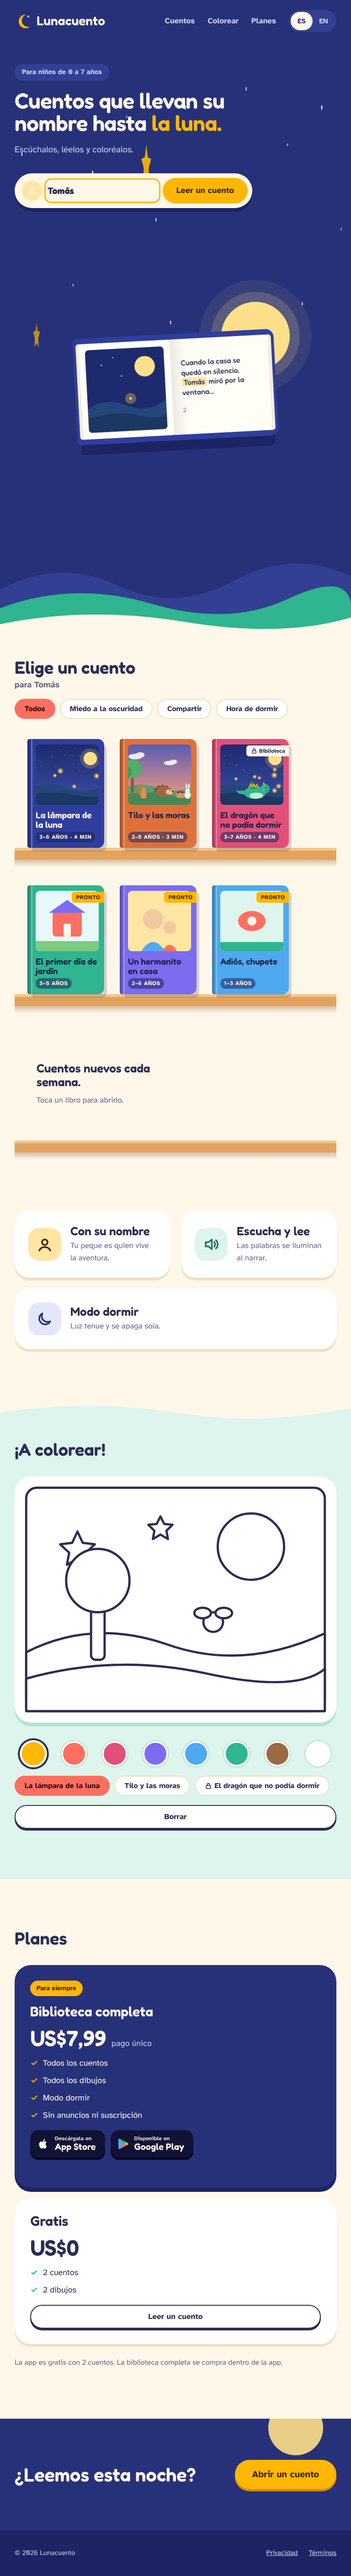
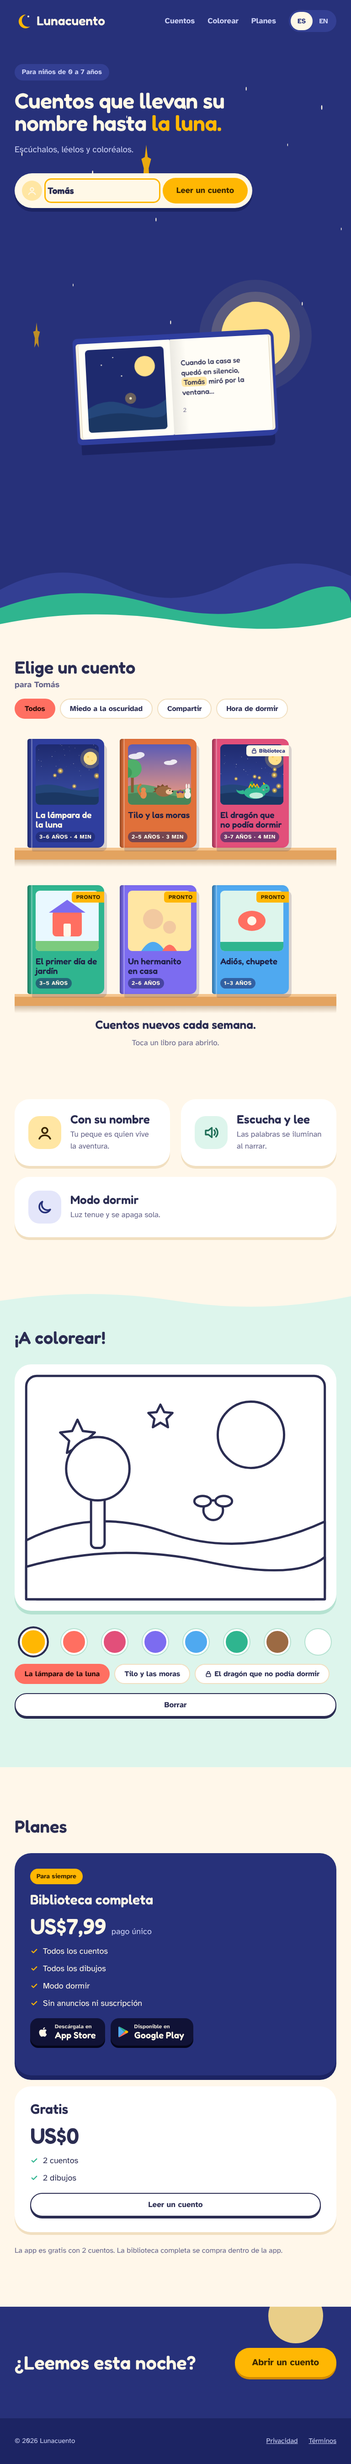
Modo de prueba, estante corregido y despliegue en Vercel (#3)
* Agrega Capacitor con los proyectos ios/ y android/

appId com.lunacuento.app, appName Lunacuento, webDir "out".
Scripts: build:app, cap:ios, cap:android. Dependencias: core, cli, ios,
android, browser y @revenuecat/purchases-capacitor.

Claude-Session: https://claude.ai/code/session_01NsKeDMnxH8TrdVoQXG24KL

* Agrega detección de plataforma y capa de compras con RevenueCat

src/lib/platform.ts detecta la app nativa sin importar Capacitor en la web.
src/lib/purchases.ts: iniciar, comprar, restaurar y entitlement "biblioteca"
(producto lunacuento_biblioteca). Sin claves o en web responde "no disponible".
Documenta NEXT_PUBLIC_RC_IOS_KEY y NEXT_PUBLIC_RC_ANDROID_KEY en .env.example.

Claude-Session: https://claude.ai/code/session_01NsKeDMnxH8TrdVoQXG24KL

* Agrega portón para adultos, pantalla de compra y modo app

- ParentalGate: suma con números en palabras y 3 opciones; también protege los enlaces externos.
- Paywall en /[lang]/comprar y al abrir un cuento con candado: Comprar y Restaurar compra.
- En la app nativa se ocultan el header web y los botones "descarga la app" (barra mínima con ES/EN).
- Textos ES/EN y privacidad/términos actualizados para la app.

Claude-Session: https://claude.ai/code/session_01NsKeDMnxH8TrdVoQXG24KL

* Agrega el cuento premium "El dragón que no podía dormir"

6 páginas ES/EN con candado (premium: true), escena vectorial de Brasa y
dibujo para colorear bloqueado hasta comprar. Los enlaces externos de las
[…]

diff --git a/src/components/Paywall.tsx b/src/components/Paywall.tsx
@@ -1,9 +1,11 @@
 "use client";
 
 import Link from "next/link";
+import { useRouter } from "next/navigation";
 import { useEffect, useState } from "react";
 import { coverInk } from "@/lib/art";
 import type { Dict, Lang } from "@/lib/i18n";
+import { MODO_PRUEBA } from "@/lib/modo-prueba";
 import { useNative } from "@/lib/platform";
 import { loadPrice, purchaseLibrary, restorePurchases, useLibrary, type PurchaseResult, type PurchaseStatus } from "@/lib/purchases";
 import type { Story } from "@/lib/stories";
@@ -26,7 +28,15 @@ export default function Paywall({ lang, t, story }: { lang: Lang; t: Dict; story
   const [msg, setMsg] = useState<Msg | null>(null);
   const [price, setPrice] = useState<string | null>(null);
 
+  const router = useRouter();
+
+  // Modo de prueba: no hay pantalla de compra; /comprar vuelve al estante.
   useEffect(() => {
+    if (MODO_PRUEBA) router.replace(`/${lang}#cuentos`);
+  }, [router, lang]);
+
+  useEffect(() => {
+    if (MODO_PRUEBA) return;
     let alive = true;
     loadPrice().then((p) => alive && setPrice(p));
     return () => {
@@ -52,6 +62,8 @@ export default function Paywall({ lang, t, story }: { lang: Lang; t: Dict; story
       setBusy(false);
       setMsg(text(r.status, kind));
     });
+
+  if (MODO_PRUEBA) return null;
 
   const back = story ? `/${lang}#cuentos` : `/${lang}`;
   const cover = story?.color ?? "#2F3E9E";

diff --git a/src/app/globals.css b/src/app/globals.css
@@ -193,6 +193,12 @@ img, svg { max-width: 100%; }
   border-radius: 6px;
 }
 .shelf-grid > * { min-width: 0; }
+.shelf-aside.below { display: none; }
+/* Hasta 900 px la grilla tiene 3 columnas o menos: el aviso va debajo del estante y no en una fila con tablón vacío. */
+@media (max-width: 900px) {
+  .shelf-aside.in-grid { display: none; }
+  .shelf-aside.below { display: flex; grid-column: auto; height: auto; padding: 8px 8px 0; align-items: center; text-align: center; max-width: none; margin: 0 auto; }
+}
 .shelf-aside { grid-column: span 2; height: var(--bh); display: flex; flex-direction: column; justify-content: center; gap: 12px; max-width: 340px; padding: 0 0 10px 20px; }
 .shelf-aside p:first-child { font-family: var(--font-display); font-size: 26px; font-weight: 600; line-height: 1.15; }
 .shelf-aside p + p { font-size: 17px; color: var(--muted); }
@@ -329,7 +335,6 @@ a.bk:active { transform: translateY(-6px) rotate(-1deg); }
   .bk-ttl { padding: 10px 10px 10px 16px; }
   .bk-ttl b { font-size: 17px; }
   .bk-ttl small { font-size: 11px; }
-  .shelf-aside { padding: 0 8px 10px; align-items: center; text-align: center; max-width: none; }
   .shelf-aside p:first-child { font-size: 22px; }
   .features { flex-direction: column; gap: 14px; }
   .feature { flex: none; border-radius: 26px; padding: 18px; gap: 16px; box-shadow: 0 5px 0 var(--card-shadow); }

diff --git a/src/lib/purchases.ts b/src/lib/purchases.ts
@@ -2,6 +2,7 @@
 
 import { useSyncExternalStore } from "react";
 import type { CustomerInfo, PRODUCT_CATEGORY, PurchasesStoreProduct } from "@revenuecat/purchases-capacitor";
+import { MODO_PRUEBA } from "./modo-prueba";
 import { getPlatform } from "./platform";
 
 /**
@@ -58,7 +59,8 @@ function setOwned(v: boolean) {
   if (prev !== v) listeners.forEach((l) => l());
 }
 
-export const isLibraryOwned = () => (owned ??= readCache());
+/** En modo de prueba (NEXT_PUBLIC_MODO_PRUEBA=1) la biblioteca siempre está desbloqueada. */
+export const isLibraryOwned = () => MODO_PRUEBA || (owned ??= readCache());
 
 function subscribe(cb: () => void) {
   listeners.add(cb);
@@ -67,9 +69,9 @@ function subscribe(cb: () => void) {
   };
 }
 
-/** ¿Está desbloqueada la biblioteca completa? Falso en el servidor y en la hidratación. */
+/** ¿Está desbloqueada la biblioteca completa? Falso en el servidor y en la hidratación (verdadero en modo de prueba). */
 export function useLibrary(): boolean {
-  return useSyncExternalStore(subscribe, isLibraryOwned, () => false);
+  return useSyncExternalStore(subscribe, isLibraryOwned, () => MODO_PRUEBA);
 }
 
 /* ------------------------------------------------------------------ */

diff --git a/src/lib/i18n.ts b/src/lib/i18n.ts
@@ -70,7 +70,7 @@ const es = {
     note: "La compra la hace una persona adulta con su cuenta de App Store o Google Play.", lock: "Cuento bloqueado", tag: "Biblioteca",
   },
   final: { title: "¿Leemos esta noche?", cta: "Abrir un cuento" },
-  footer: { rights: "© 2026 Lunacuento", privacy: "Privacidad", terms: "Términos" },
+  footer: { rights: "© 2026 Lunacuento", privacy: "Privacidad", terms: "Términos", test: "Modo de prueba: cuentos desbloqueados" },
   legal: {
     draft: "Borrador · se revisará antes del lanzamiento.",
     back: "Volver al inicio",
@@ -158,7 +158,7 @@ const en: typeof es = {
     note: "An adult makes the purchase with their App Store or Google Play account.", lock: "Locked story", tag: "Library",
   },
   final: { title: "Story time tonight?", cta: "Open a story" },
-  footer: { rights: "© 2026 Lunacuento", privacy: "Privacy", terms: "Terms" },
+  footer: { rights: "© 2026 Lunacuento", privacy: "Privacy", terms: "Terms", test: "Test mode: stories unlocked" },
   legal: {
     draft: "Draft · to be reviewed before launch.",
     back: "Back to home",

diff --git a/src/components/Plans.tsx b/src/components/Plans.tsx
@@ -1,6 +1,7 @@
 import Link from "next/link";
 import type { Dict, Lang } from "@/lib/i18n";
 import { IconCheck } from "./icons";
+import { MODO_PRUEBA } from "@/lib/modo-prueba";
 import StoreButtons from "./StoreButtons";
 
 /**
@@ -32,7 +33,7 @@ export default function Plans({ lang, t, firstStory }: { lang: Lang; t: Dict; fi
             <Feats list={P.full.feat} />
             <div className="actions">
               <div className="web-only"><StoreButtons t={t} /></div>
-              <Link href={`/${lang}/comprar`} className="btn btn-sun btn-lg app-only">{t.buy.unlock}</Link>
+              {MODO_PRUEBA ? null : <Link href={`/${lang}/comprar`} className="btn btn-sun btn-lg app-only">{t.buy.unlock}</Link>}
             </div>
           </div>
         </div>

diff --git a/src/components/Shelf.tsx b/src/components/Shelf.tsx
@@ -76,10 +76,15 @@ export default function Shelf({ lang, t, stories }: { lang: Lang; t: Dict; stori
             </div>
           ))}
           {list.length + soon.length === 0 ? <p className="shelf-empty">{t.shelf.empty}</p> : null}
-          <div className="shelf-aside">
+          <div className="shelf-aside in-grid">
             <p>{t.shelf.weekly}</p>
             <p>{t.shelf.note}</p>
           </div>
+        </div>
+        {/* En pantallas chicas el aviso va debajo del estante: dentro de la grilla ocuparía una fila con un tablón vacío. */}
+        <div className="shelf-aside below">
+          <p>{t.shelf.weekly}</p>
+          <p>{t.shelf.note}</p>
         </div>
       </div>
     </section>

diff --git a/src/components/SiteFooter.tsx b/src/components/SiteFooter.tsx
@@ -1,11 +1,12 @@
 import Link from "next/link";
 import type { Dict, Lang } from "@/lib/i18n";
+import { MODO_PRUEBA } from "@/lib/modo-prueba";
 
 export default function SiteFooter({ lang, t }: { lang: Lang; t: Dict }) {
   return (
     <footer className="site-footer">
       <div className="wrap">
-        <span>{t.footer.rights}</span>
+        <span>{t.footer.rights}{MODO_PRUEBA ? ` · ${t.footer.test}` : ""}</span>
         <nav aria-label={`${t.footer.privacy} · ${t.footer.terms}`}>
           <Link href={`/${lang}/privacidad`}>{t.footer.privacy}</Link>
           <Link href={`/${lang}/terminos`}>{t.footer.terms}</Link>

diff --git a/src/lib/modo-prueba.ts b/src/lib/modo-prueba.ts
@@ -1,0 +1,7 @@
+/**
+ * Modo de prueba: con NEXT_PUBLIC_MODO_PRUEBA=1 todos los cuentos premium quedan desbloqueados y no se muestra
+ * la pantalla de compra (sirve para probar la funcionalidad antes de configurar los pagos).
+ * Vacía = comportamiento normal. Se incrusta al compilar: cambiarla exige volver a compilar o desplegar.
+ * Sin "use client" a propósito: lo usan componentes de servidor y de cliente.
+ */
+export const MODO_PRUEBA = process.env.NEXT_PUBLIC_MODO_PRUEBA === "1";

diff --git a/docs/PROBAR-EN-MAC.md b/docs/PROBAR-EN-MAC.md
@@ -1,0 +1,177 @@
+# Probar la app en el simulador de iPhone y en el emulador de Android
+
+Guía para ver Lunacuento corriendo en tu Mac, **sin cuenta de desarrollador, sin tiendas y sin pagos**. Se usa el modo de prueba, que desbloquea todos los cuentos.
+
+> Estado: estos pasos no se han ejecutado todavía en un Mac (el proyecto se construyó en Linux). Si algún comando falla, pega el error y se corrige.
+
+## 0. Una sola vez: instalar herramientas
+
+1. **Xcode** desde la App Store (pesa varios GB). Ábrelo una vez y acepta la licencia. Después:
+
+   ```bash
+   xcode-select --install
+   ```
+
+   ```bash
+   sudo xcodebuild -license accept
+   ```
+
+   Xcode necesita tener instalado un simulador de iOS: **Xcode → Settings → Components** (o *Platforms*) → instala el iOS más reciente.
+   La versión mínima de Xcode la fija Capacitor 8: <https://capacitorjs.com/docs/getting-started/environment-setup>.
+
+2. **Node.js** 20 o superior (con Homebrew: <https://brew.sh>):
+
+   ```bash
+   brew install node
+   ```
+
+   ```bash
+   node -v
+   ```
+
+3. **Android Studio**: <https://developer.android.com/studio>. Ábrelo una vez y deja que descargue el SDK (*More Actions → SDK Manager*: un *SDK Platform* reciente, *Android SDK Platform-Tools* y *Android Emulator*).
+
+4. Variables de Android para la terminal (añádelas a `~/.zshrc` y abre una terminal nueva):
+
+   ```bash
+   echo 'export ANDROID_HOME="$HOME/Library/Android/sdk"' >> ~/.zshrc
+   ```
+
+   ```bash
+   echo 'export PATH="$PATH:$ANDROID_HOME/emulator:$ANDROID_HOME/platform-tools"' >> ~/.zshrc
+   ```
+
+   ```bash
+   echo 'export JAVA_HOME="/Applications/Android Studio.app/Contents/jbr/Contents/Home"' >> ~/.zshrc
+   ```
+
+## 1. Descargar el proyecto y preparar el modo de prueba
+
+```bash
+git clone https://github.com/ahermosilla-chl/lunacuento.git
+cd lunacuento
+```
+
+Mientras los cambios no estén en `main`, cambia a la rama que los trae (si ya se fusionó, sáltate este paso):
+
+```bash
+git checkout claude/lunacuento-modo-prueba
+```
+
+```bash
+npm ci
+```
+
+```bash
+echo 'NEXT_PUBLIC_MODO_PRUEBA=1' > .env.local
+```
+
+Genera el sitio y cópialo a los proyectos nativos (necesita internet: descarga las fuentes):
+
+```bash
+npm run build:app
+```
+
+> Cada vez que cambies código o `.env.local`, repite `npm run build:app`. La variable se incrusta al compilar.
+
+## 2. iPhone (simulador de Xcode)
+
+Opción A, con la interfaz de Xcode:
+
+```bash
+npm run cap:ios
+```
+
+1. Se abre Xcode. Espera a que termine *Resolving Package Dependencies* (la primera vez tarda; necesita internet).
+2. Arriba, junto al botón ▶, elige un simulador (p. ej. **iPhone 16** o el que tengas).
+3. Para el simulador **no hace falta firmar**: si Xcode pide *Team*, no importa para el simulador.
+4. Pulsa **▶ (Run)**. El simulador arranca y abre Lunacuento.
+
+Opción B, solo con comandos:
+
+```bash
+xcrun simctl list devices available
+```
+
+Copia el nombre exacto de un iPhone de la lista (p. ej. `iPhone 16`) y:
+
+```bash
+npx cap run ios --target "$(xcrun simctl list devices available | grep -m1 'iPhone' | grep -oE '[0-9A-F-]{36}')"
+```
+
+Si prefieres elegir de una lista interactiva:
+
+```bash
+npx cap run ios
+```
+
+Girar el simulador: **Cmd + ← / →**. Cambiar de iPhone: menú **File → Open Simulator**.
+
+## 3. Android (emulador de Android Studio)
+
+Crear un emulador (una sola vez): abre Android Studio → **More Actions → Virtual Device Manager → Create Device** → elige *Pixel 8* (o similar) → una imagen de sistema reciente (descárgala con ⬇) → *Finish*.
+
+Opción A, con la interfaz:
+
+```bash
+npm run cap:android
+```
+
+1. Se abre Android Studio. Espera a que termine **Gradle sync** (abajo; la primera vez tarda y descarga cosas).
+2. Arriba, en el selector de dispositivos, elige tu emulador.
+3. Pulsa **▶ (Run 'app')**. El emulador arranca y abre Lunacuento.
+
+Opción B, solo con comandos:
+
+```bash
+emulator -list-avds
+```
+
+```bash
+emulator -avd NOMBRE_DEL_EMULADOR &
+```
+
+Cuando el emulador termine de arrancar:
+
+```bash
+npx cap run android
+```
+
+## 4. Qué probar (modo de prueba)
+
+- Al final de la página principal, el pie dice **"Modo de prueba: cuentos desbloqueados"**.
+- No se ve el header de la web ni botones "Descarga la app": solo la barra con el logo y **ES/EN**.
+- En el estante, **"El dragón que no podía dormir" no tiene candado** y se abre directo en el libro. No aparece la pantalla de compra en ningún lado.
+- Abrir el libro: la tapa se abre, la hoja sigue el dedo (en el simulador, arrastra con el mouse), tocar los lados pasa página.
+- **Lectura acompañada** con voz: pulsa "Escuchar" y confirma que se iluminan las palabras y que la página pasa sola. Es el único punto de la auditoría que falta verificar con voz real.
+- **Modo dormir** con temporizador, y la pantalla "Buenas noches".
+- Colorear: tocar una zona la pinta; el dibujo del dragón también está disponible.
+- Cambiar ES/EN y escribir un nombre: el nombre aparece en estante y cuentos.
+- Gira el dispositivo y comprueba que no haya scroll horizontal.
+
+## 5. Ver errores de la página (opcional)
+
+- **iPhone**: en Safari del Mac, menú **Develop → Simulator → (Lunacuento)**. Si no ves el menú: *Safari → Settings → Advanced → Show features for web developers*.
+- **Android**: en Chrome del Mac, abre `chrome://inspect` y pulsa *inspect* bajo el emulador.
+
+## Si algo falla
+
+| Síntoma | Qué hacer |
+|---|---|
+| Pantalla en blanco o contenido viejo | Repite `npm run build:app` y vuelve a pulsar ▶. |
+| Xcode: *No such module* / paquetes sin resolver | **File → Packages → Reset Package Caches**, luego **Resolve Package Versions**. |
+| Xcode no encuentra simuladores | Instala una plataforma iOS en **Xcode → Settings → Components**. |
+| Gradle: error de Java / JDK | **Android Studio → Settings → Build Tools → Gradle → Gradle JDK**: elige el *jbr* que trae Android Studio. |
+| `emulator: command not found` | Revisa las variables del paso 0.4 y abre una terminal nueva. |
+| `npm run build:app` falla bajando fuentes | Falta internet o Google Fonts está bloqueado en tu red. |
+| Las compras no funcionan | Es lo esperado: en modo de prueba no hay compras. Los pagos se prueban después, con `docs/PUBLICAR.md`. |
+
+## Volver al modo normal (con candado y compra)
+
+```bash
+rm .env.local
+```
+
+```bash
+npm run build:app
+```

diff --git a/README.md b/README.md
@@ -19,6 +19,17 @@ npm run lint
 
 La web y los cuentos gratis funcionan sin variables de entorno. Solo la app nativa necesita las claves públicas de RevenueCat (`NEXT_PUBLIC_RC_IOS_KEY`, `NEXT_PUBLIC_RC_ANDROID_KEY`); ver `.env.example`.
 
+## Modo de prueba
+
+Para probar la funcionalidad antes de configurar los pagos:
+
+```bash
+echo 'NEXT_PUBLIC_MODO_PRUEBA=1' >> .env.local
+npm run build            # o npm run build:app para la app
+```
+
+Con `NEXT_PUBLIC_MODO_PRUEBA=1` todos los cuentos premium (y sus dibujos) quedan desbloqueados, no hay candados ni pantalla de compra (`/comprar` vuelve al estante) y el pie del sitio dice "Modo de prueba". Con la variable vacía o ausente todo funciona como siempre. La variable se incrusta al compilar: si la cambias, vuelve a compilar o a desplegar. **No la actives en la versión que se sube a las tiendas.** Comprobación automática: compilar con la variable, servir `out/` y `npm run probar:modo-prueba`.
+
 ## Sitio estático (listo para Capacitor)
 
 `next.config.ts` usa `output: "export"`: `npm run build` deja todo en `out/` (HTML, JS, CSS, fuentes embebidas e ilustraciones). No hay middleware ni rutas de servidor:
@@ -44,6 +55,7 @@ npm run assets       # regenera ícono y splash desde assets/*.svg
 - **Portón para adultos**: `src/components/ParentalGate.tsx`, antes de comprar, restaurar y abrir enlaces externos.
 - **Cuento con candado**: `premium: true` en `src/lib/stories.ts`; tocarlo abre la pantalla de compra (`Paywall`).
 - En la app se oculta el header de la web y los botones "descarga la app" (`<html data-native>`).
+- Probar en simulador/emulador (Mac): [`docs/PROBAR-EN-MAC.md`](docs/PROBAR-EN-MAC.md).
 - Guía completa de publicación: [`docs/PUBLICAR.md`](docs/PUBLICAR.md).
 
 ## Revisión visual
@@ -58,7 +70,7 @@ npm run capturas                      # Playwright en 375, 768 y 1280 px
 
 ## Publicar la web
 
-Cualquier hosting estático sirve la carpeta `out/`. En Vercel: importar el repo, framework Next.js; Vercel detecta `output: "export"` y publica el resultado estático.
+Cualquier hosting estático sirve la carpeta `out/`. En Vercel el repo ya trae `vercel.json` (`npm run build`, salida `out/`, `trailingSlash`): importar el repo y listo. Para que las previews usen el modo de prueba, crear `NEXT_PUBLIC_MODO_PRUEBA=1` solo en el entorno *Preview* (pasos exactos en el PR de despliegue y en la sección de arriba).
 
 Antes de publicar, reemplazar en `src/lib/stores.ts` los marcadores `[APP_STORE_URL]` y `[PLAY_STORE_URL]` por los enlaces reales. Mientras sean marcadores, los botones muestran un aviso de "muy pronto".
 
